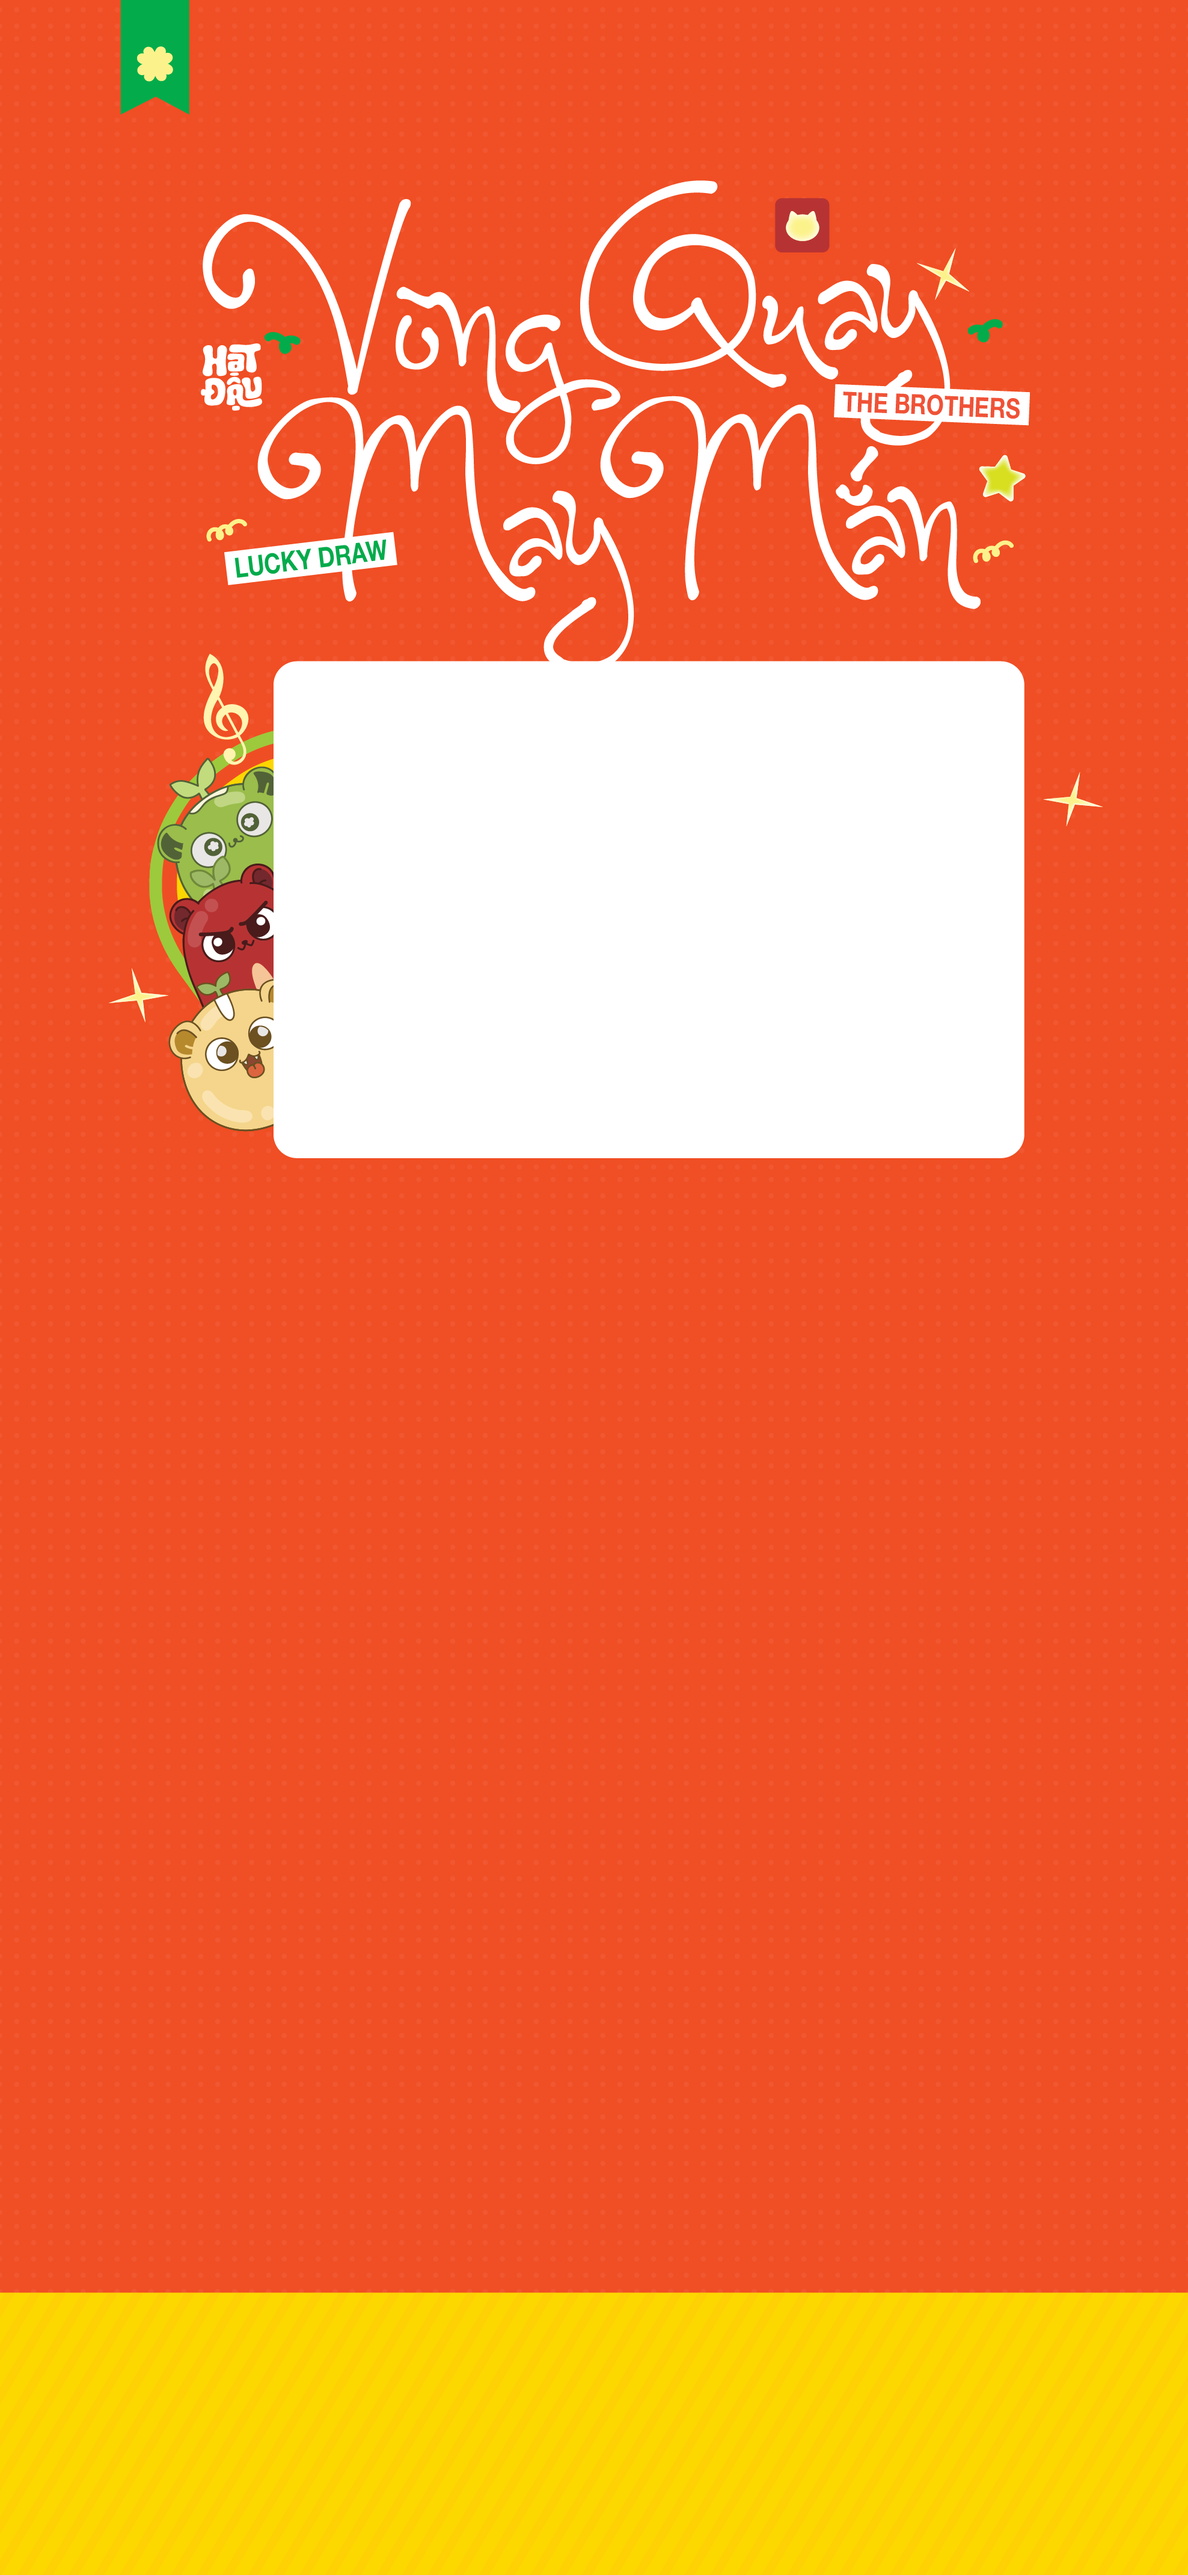
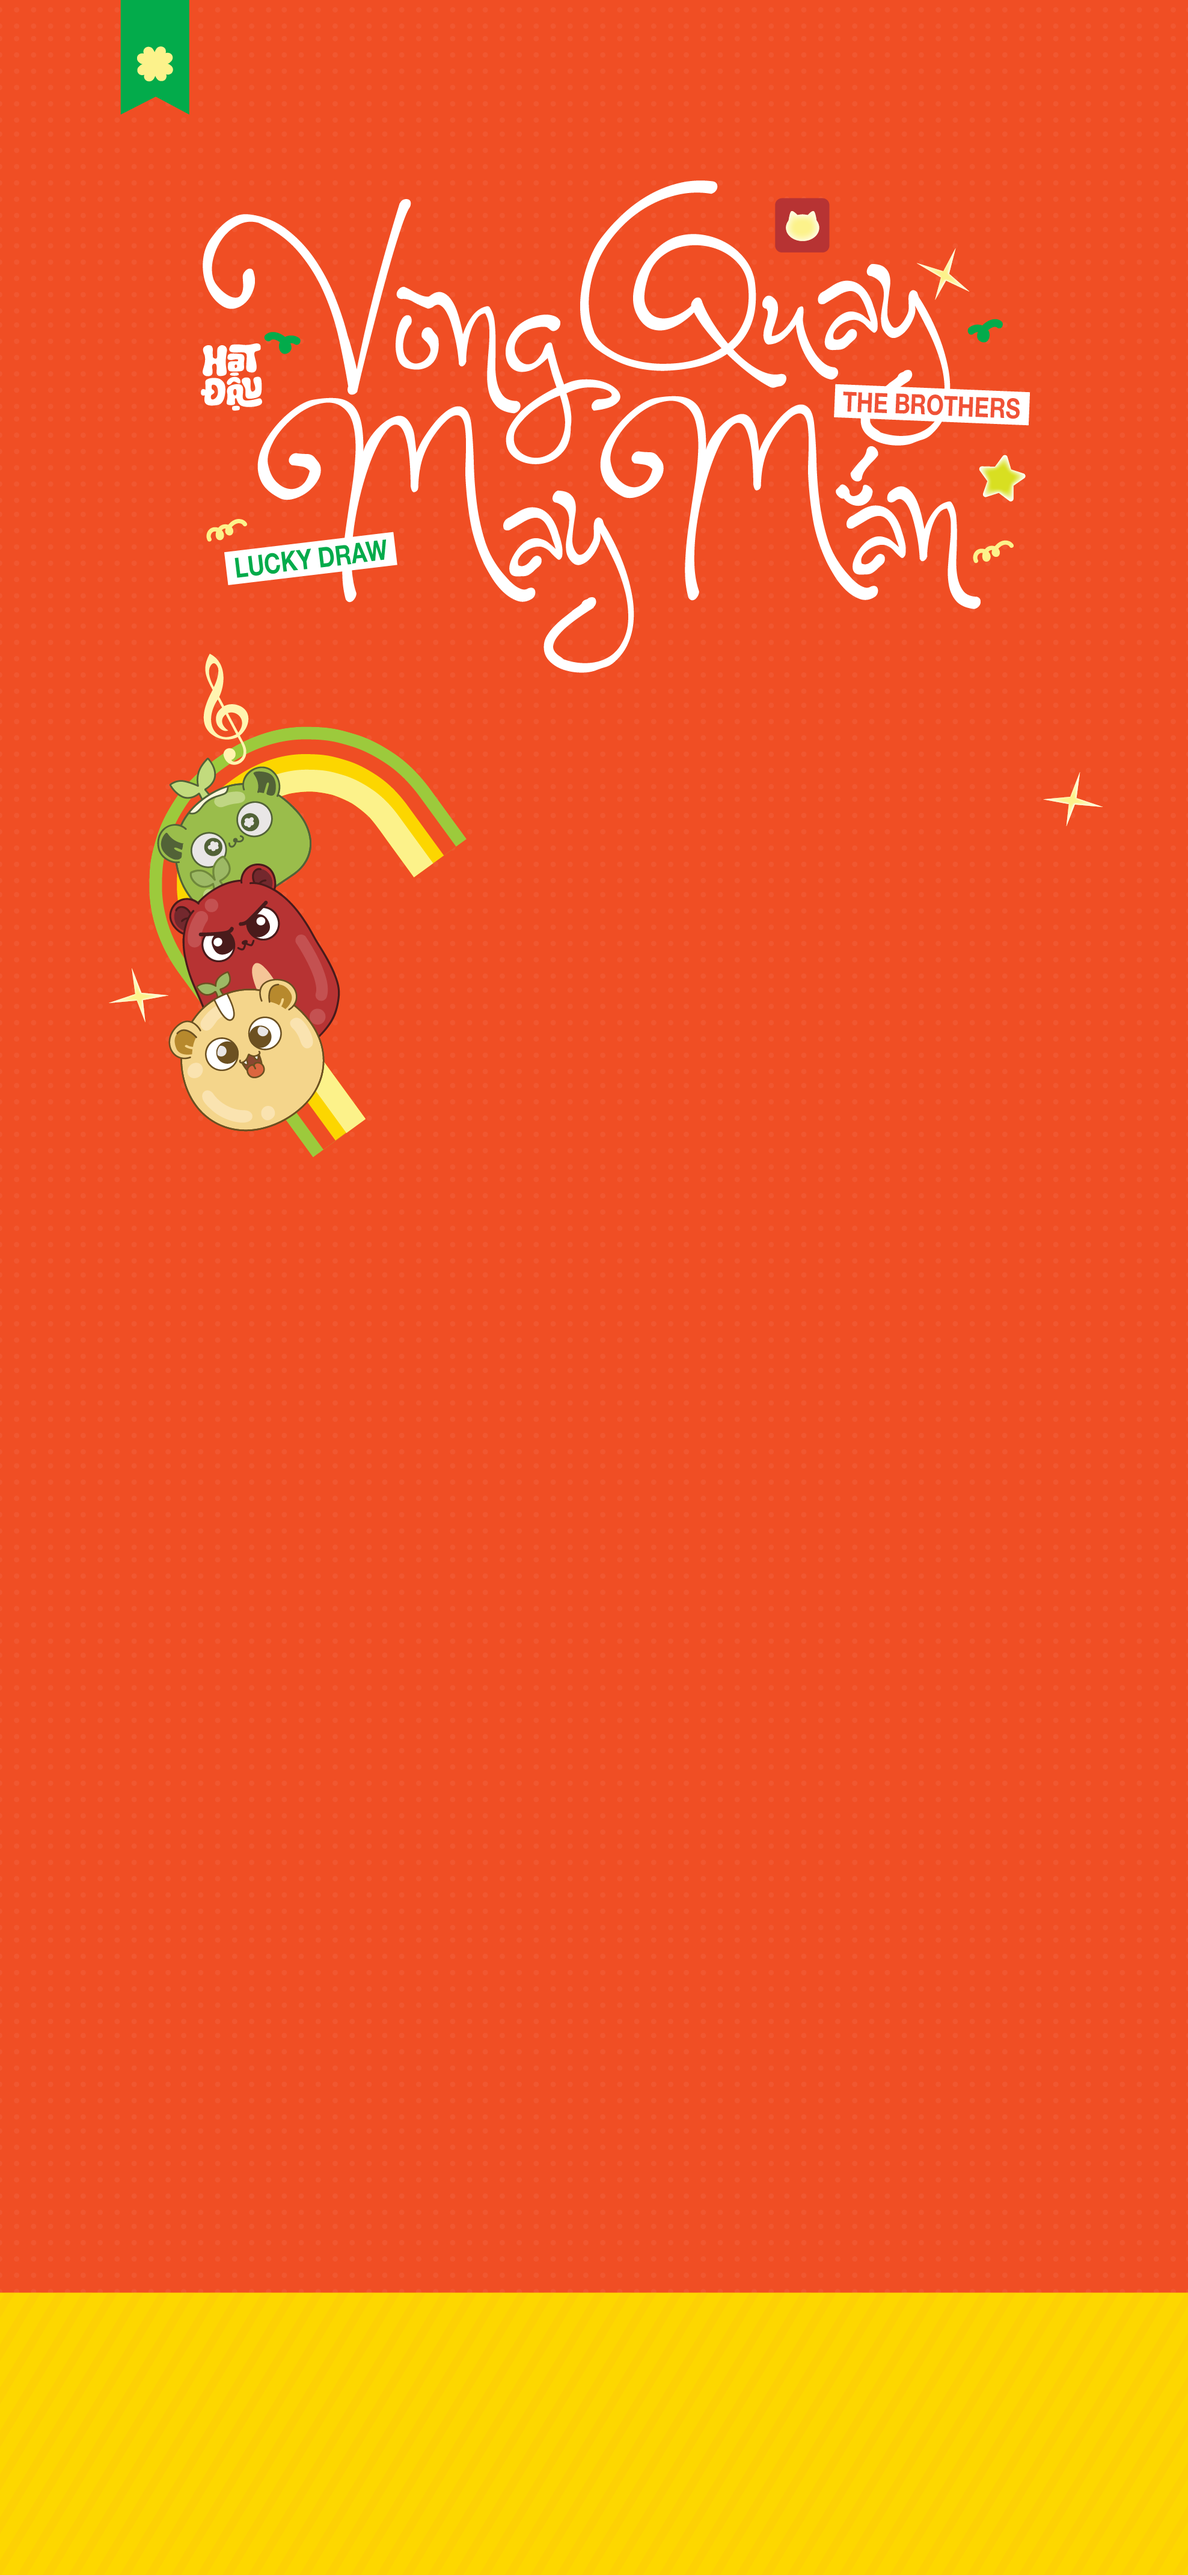
seven

Changed region(s): [[0.2161, 0.2485, 0.8644, 0.4659]]

diff --git a/index.html b/index.html
@@ -40,7 +40,7 @@
       /* Phần bên trái: Thể lệ */
       .left-panel {
         grid-area: left;
-        min-width: 300px;
+        min-width: 350px;
         /* background: #fff; */
         padding: 80px;
         padding-top: 200px;
@@ -77,6 +77,7 @@
         align-items: center;
         justify-content: center;
         position: relative;
+        overflow: visible;
       }
 
       .wheel-wrapper {
@@ -85,6 +86,8 @@
         max-width: 500px; /* Điều chỉnh kích thước vòng quay */
         aspect-ratio: 1/1;
         margin-bottom: 20px;
+        z-index: 3; /* ensure wheel is above background elements */
+        overflow: visible;
       }
 
       #wheel {
@@ -115,6 +118,43 @@
         z-index: 5;
         transition: transform 0.2s;
       }
+      #co4la {
+        position: absolute;
+        bottom: 12px;
+        left: -30px;
+        width: 20%; /* Kích thước nút so với vòng quay */
+        cursor: pointer;
+        z-index: 5;
+        transition: transform 0.2s;
+      }
+
+      #chan {
+        position: absolute;
+        bottom: -20px; /* place slightly below the wheel */
+        left: 50%;
+        transform: translateX(-50%);
+        width: 30%; /* Kích thước nút so với vòng quay */
+        cursor: pointer;
+        z-index: 1; /* put under wheel-wrapper and legend */
+        transition: transform 0.2s;
+      }
+
+      /* Ensure legend sits above the background/chan */
+      .legend {
+        position: relative;
+        z-index: 4;
+      }
+      #congmam {
+        position: absolute;
+        top: -70px; /* align to bottom of wheel-wrapper */
+        left: 50%;
+        transform: translateX(-50%);
+        width: 20%; /* make it more visible */
+        cursor: pointer;
+        z-index: 2; /* below the wheel (wheel-wrapper z-index:3) */
+        transition: transform 0.2s;
+        pointer-events: none; /* pass clicks to wheel above if needed */
+      }
 
       #spin-btn:active {
         transform: translate(-50%, -50%) scale(0.95);
@@ -123,7 +163,11 @@
       /* Input Code Section */
       .input-section {
         display: flex;
+        flex-direction: column;
         justify-content: center;
+        padding: 60px 40px;
+        border-radius: 12px;
+        background: #fff;
         gap: 10px;
         width: 100%;
         max-width: 400px;
@@ -300,8 +344,8 @@
           width: 22%;
         }
         #gif {
-          width: 20%;
-          bottom: 6px;
+          width: 30%;
+          bottom: -20px;
           right: 6px;
         }
 
@@ -340,6 +384,12 @@
         .modal-content {
           width: 80%;
         }
+        #chan {
+          bottom: -8px; /* place slightly below the wheel */
+        }
+        #congmam {
+          top: -50px; /* align to bottom of wheel-wrapper */
+        }
       }
     </style>
   </head>
@@ -374,6 +424,8 @@
             onclick="validateAndSpin()"
           />
           <img src="gif.gif" id="gif" />
+          <img src="co.png" id="co4la" />
+          <img src="congmam.png" id="congmam" />
         </div>
         <!-- Legend and code input moved here per request -->
         <div class="legend" aria-hidden="false">
@@ -387,7 +439,7 @@
             <span class="legend-color yellow"></span>Yellow (1.400.000đ)
           </div>
         </div>
-
+        <img src="chan.png" id="chan" />
         <!-- Legend and input moved to left panel -->
       </div>
     </div>
